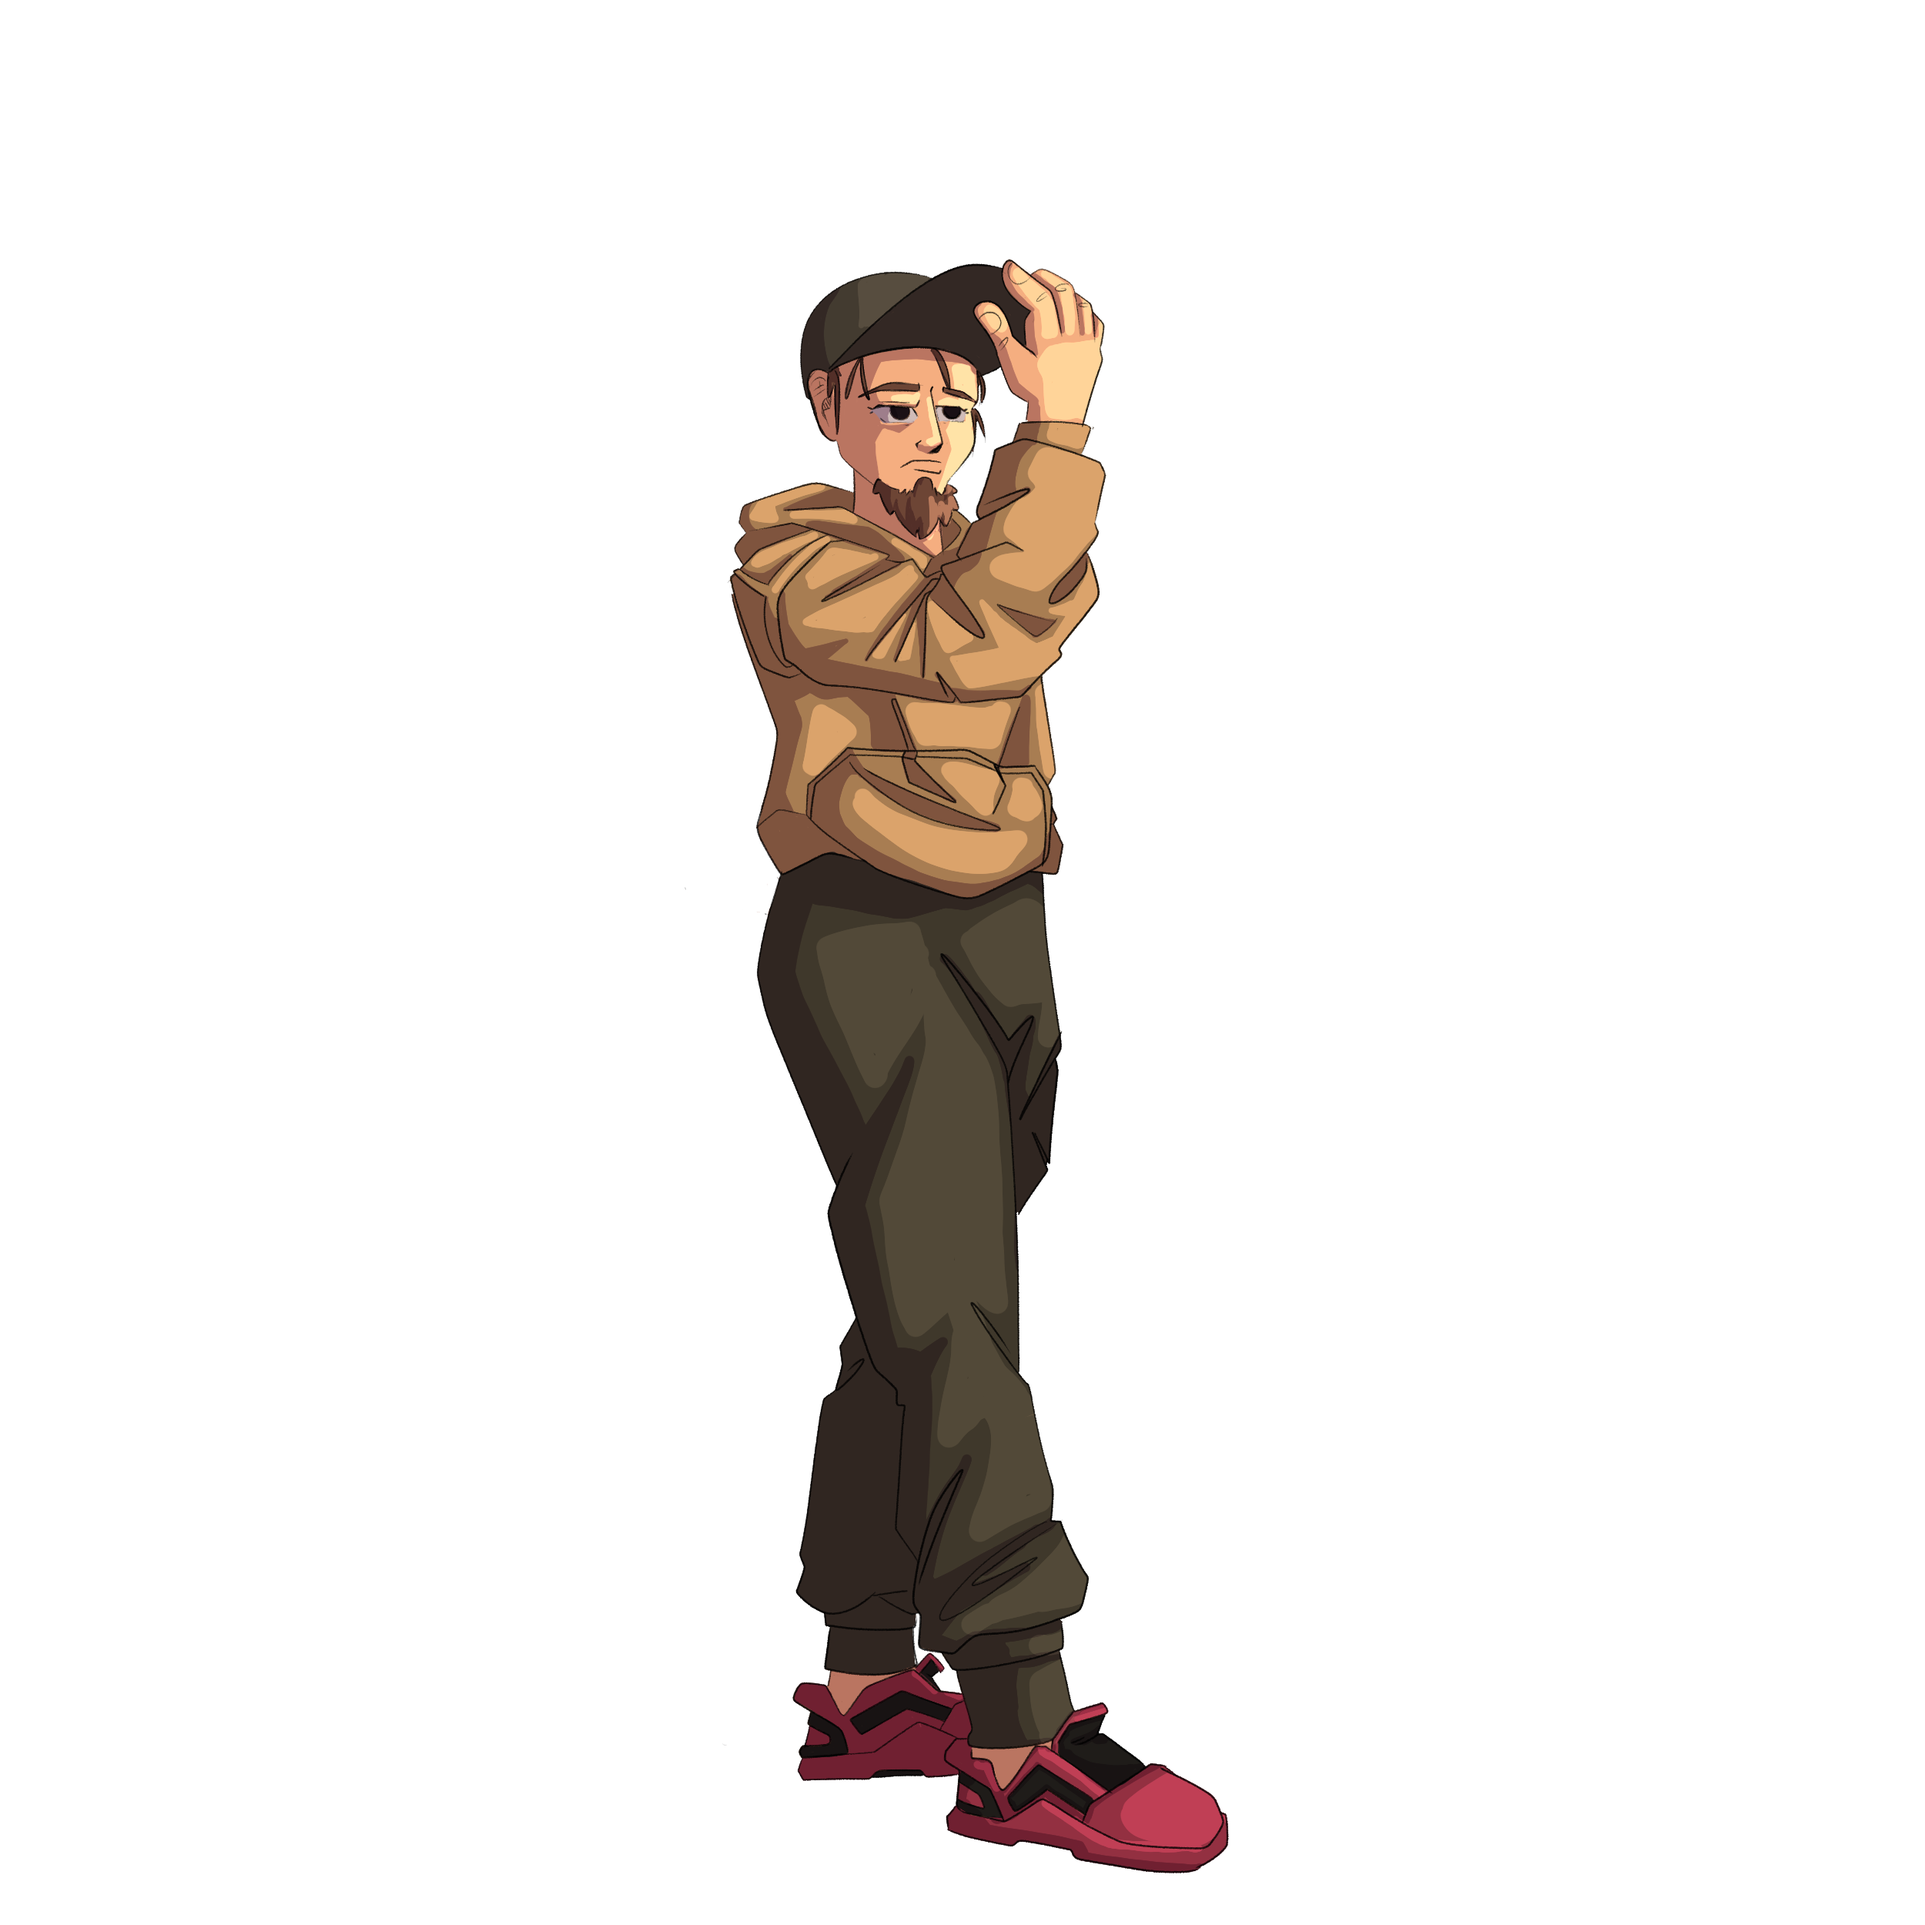
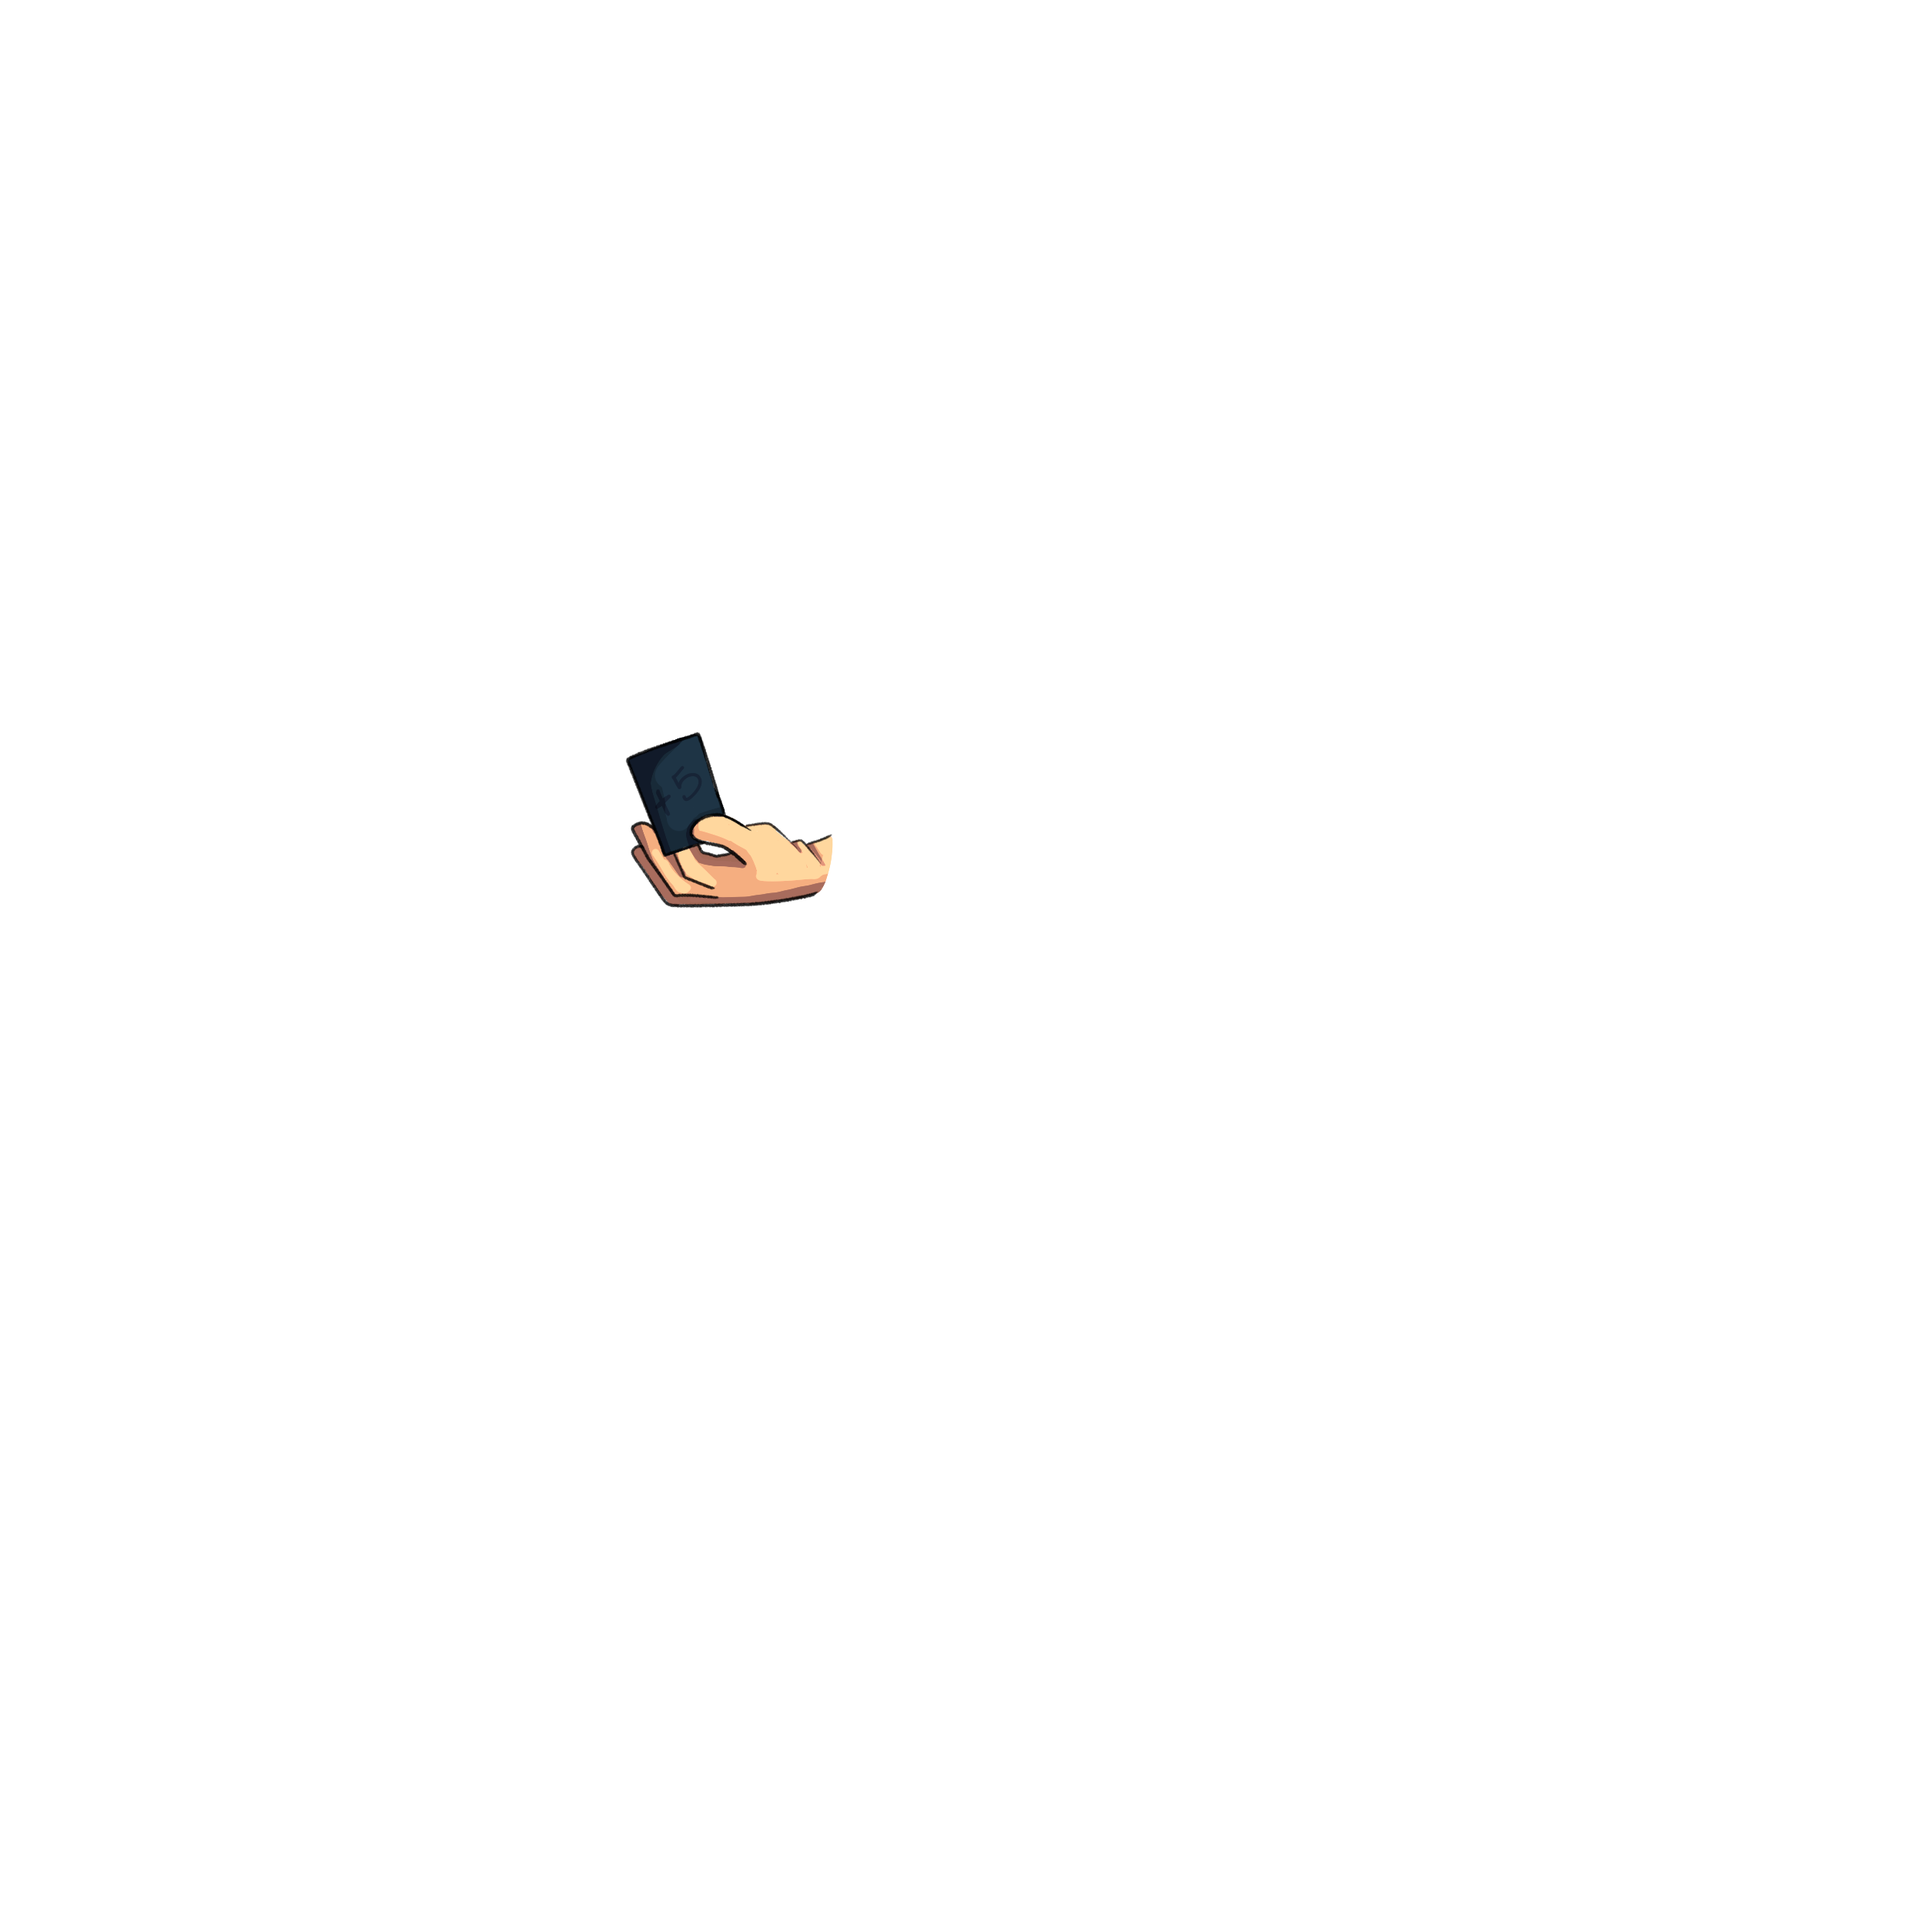
commit

Changed region(s): [[0.312, 0.1248, 0.6552, 0.9984]]

diff --git a/Styles/crearCarta.css b/Styles/crearCarta.css
@@ -108,20 +108,21 @@ input, select, textarea {
     top: 85%;
     right: 20px;
     font-weight: bold;
-    font-size: 16px;
+    font-size: 10px;
     color: #fff;
     display: flex;
-    justify-content: space-around;
-    align-items: center;
+    justify-content: center;  /* Esto centra el contenido horizontalmente */
+    align-items: center;      /* Esto centra el contenido verticalmente */
+    text-align: center;
     text-shadow: 1px 1px 2px #000;
-    background-image: url('../public/images/cartas/Elementos/NUMERO.png'); /* Agregar la imagen sobre el valor */
-    background-size: contain;      
+    background-image: url('../public/images/cartas/Elementos/NUMERO.png');
+    background-size: contain;
     background-position: center;
     background-repeat: no-repeat;
     width: 17%;
     height: 12%;
     z-index: 3;
-}
+  }
 
 .visualizacion-carta .descripcion {
     position: absolute;

diff --git a/Styles/dashboard.css b/Styles/dashboard.css
@@ -39,7 +39,6 @@ body {
     bottom: 0;
     transition: transform 0.1s ease-out;
 }
-
 .imgIzqParallax{
     width: 40%;
     height: auto;

diff --git a/dashboard.php b/dashboard.php
@@ -35,6 +35,24 @@ switch ($tipoUsuario) {
         echo "Tipo de usuario no reconocido.";
         exit();
 }
+
+    // Seleccionar una carpeta al azar (1, 2 o 3)
+    $carpetas = ['1', '2', '3'];
+    $carpetaSeleccionada = $carpetas[array_rand($carpetas)];
+
+    // Cargar las imágenes de la carpeta seleccionada
+    $image1 = "public/images/arte/parallax/$carpetaSeleccionada/1.png";
+    $image2 = "public/images/arte/parallax/$carpetaSeleccionada/2.png";
+    $image3 = "public/images/arte/parallax/$carpetaSeleccionada/3.png";
+
+    $carpetaIzquierda = $carpetas[array_rand($carpetas)];
+    while ($carpetaIzquierda == $carpetaSeleccionada) {
+        $carpetaIzquierda = $carpetas[array_rand($carpetas)]; // Asegurarse de que la carpeta izquierda no sea la misma que la derecha
+    }
+
+    $image12 = "public/images/arte/parallax/$carpetaIzquierda/1.png";
+    $image22 = "public/images/arte/parallax/$carpetaIzquierda/2.png";
+    $image32 = "public/images/arte/parallax/$carpetaIzquierda/3.png";
 ?>
 
 <!DOCTYPE html>
@@ -55,15 +73,17 @@ switch ($tipoUsuario) {
             <a href="dashboard.php?action=logout">Cerrar Sesión</a>
         </div>
         <div class="parallax-container">
-            <img class="imgDerParallax parallaxC1" src="public/images/arte/parallax/1/1.png" data-speed="0.5">
-            <img class="imgDerParallax parallaxC2 derC2" src="public/images/arte/parallax/1/2.png" data-speed="2">
-        </div>
-        
+            <img class="imgDerParallax parallaxC1" src="<?php echo $image1; ?>" data-speed="0.5">
+            <img class="imgDerParallax parallaxC2 " src="<?php echo $image2; ?>" data-speed="2">
+            <img class="imgDerParallax parallaxC3 " src="<?php echo $image3; ?>" data-speed="2">
+        </div>        
         <div class="parallax-container">
-            <img class="imgIzqParallax parallaxC1" src="public/images/arte/parallax/2/1.png" data-speed="0.5">
-            <img class="imgIzqParallax parallaxC2 izqC2" src="public/images/arte/parallax/2/2.png" data-speed="1">
-            <img class="imgIzqParallax parallaxC3 izqC3" src="public/images/arte/parallax/2/3.png" data-speed="2">
-        </div>
+            <img class="imgIzqParallax parallaxC1" src="<?php echo $image12; ?>" data-speed="0.5">
+            <img class="imgIzqParallax parallaxC2 " src="<?php echo $image22; ?>" data-speed="1">
+            <img class="imgIzqParallax parallaxC3 " src="<?php echo $image32; ?>" data-speed="2">
+        </div>        
+        
+
         <div class="vista">
             <script src="Javascript/Dashboard.js"></script>
             <?php include $vista; ?>
